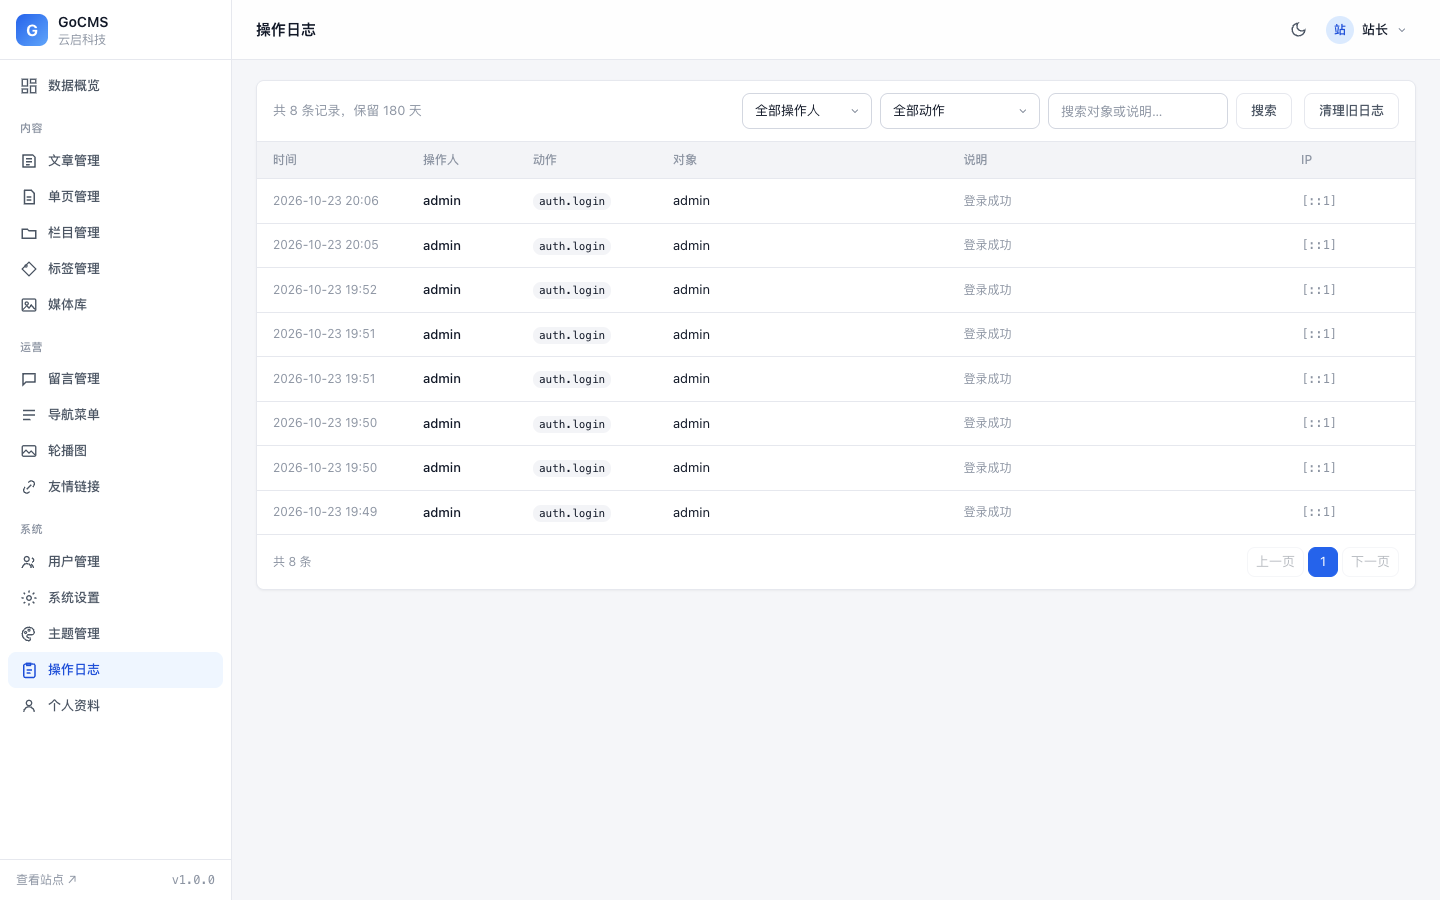
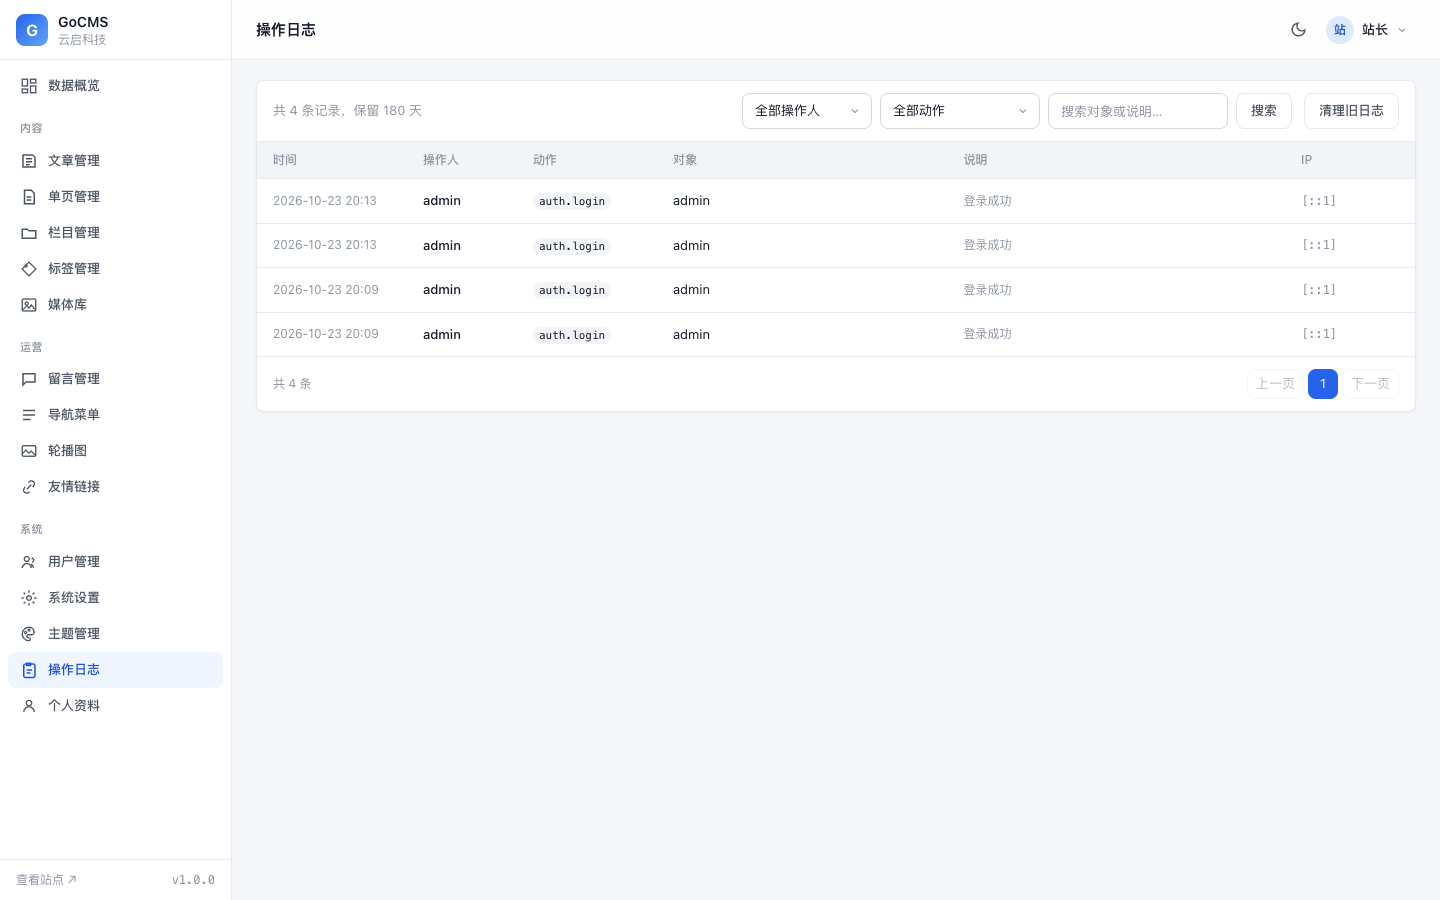
fix: /healthz 的 uptime_seconds 从未赋值，永远返回 0
healthResponse.Uptime 字段定义了但计算时漏掉，JSON 结构看着完全正常，
实际这个字段一直恒为 0 —— 运维想靠它判断「是否刚重启过」时拿到的是假数据。

- 赋值 int64(time.Since(processStartedAt).Seconds())
- 补 TestHealthzUptime：把 processStartedAt 前拨 2 小时，断言 uptime > 7000，
  避免以后又出现「字段在、值为零」这种看不出来的漏赋值

实测：重启后 5 秒 → 9 秒，确实在增长。

diff --git a/internal/handler/health_test.go b/internal/handler/health_test.go
@@ -7,6 +7,7 @@ import (
 	"net/http/httptest"
 	"strings"
 	"testing"
+	"time"
 
 	_ "github.com/go-sql-driver/mysql"
 
@@ -63,5 +64,25 @@ func TestHealthzWithoutDB(t *testing.T) {
 	}
 	if ct := rec.Header().Get("Content-Type"); !strings.Contains(ct, "application/json") {
 		t.Errorf("Content-Type = %q，期望 JSON", ct)
+	}
+}
+
+// uptime 曾经永远是 0：字段定义了却没赋值，JSON 里看着正常，实际拿不到任何信息。
+// 把启动时间往前拨 2 小时来断言它真的在被计算。
+func TestHealthzUptime(t *testing.T) {
+	orig := processStartedAt
+	processStartedAt = time.Now().Add(-2 * time.Hour)
+	t.Cleanup(func() { processStartedAt = orig })
+
+	h := &Handler{repo: &repository.Repo{}}
+	rec := httptest.NewRecorder()
+	h.Healthz(rec, httptest.NewRequest(http.MethodGet, "/healthz", nil))
+
+	var body healthResponse
+	if err := json.Unmarshal(rec.Body.Bytes(), &body); err != nil {
+		t.Fatalf("响应不是合法 JSON: %v", err)
+	}
+	if body.Uptime < 7000 {
+		t.Errorf("uptime_seconds = %d，进程已跑 2 小时应 > 7000", body.Uptime)
 	}
 }

diff --git a/internal/handler/health.go b/internal/handler/health.go
@@ -49,6 +49,8 @@ func (h *Handler) Healthz(w http.ResponseWriter, r *http.Request) {
 		err = errNoDB
 	}
 	resp.DBCheck = time.Since(start).Milliseconds()
+	// 进程运行时长：运维判断「是否刚重启过」「是否稳定运行」最直接的指标
+	resp.Uptime = int64(time.Since(processStartedAt).Seconds())
 
 	code := http.StatusOK
 	if err != nil {

diff --git a/docs/02-实测验证记录.md b/docs/02-实测验证记录.md
@@ -508,7 +508,7 @@ ADMIN_PATH=manage node scripts/audit-admin-ui.js
 ### 13.2 /healthz
 
 ```json
-{"status":"ok","db":"ok","uptime_seconds":0,"db_latency_ms":0}
+{"status":"ok","db":"ok","uptime_seconds":5,"db_latency_ms":0}
 ```
 
 | 用例 | 结果 |
@@ -519,6 +519,11 @@ ADMIN_PATH=manage node scripts/audit-admin-ui.js
 | 响应头 | `Cache-Control: no-store` |
 | 响应体是否泄露内部细节 | 否（不含 DSN、驱动报错原文） |
 | 后台 IP 白名单开启后 | 仍 200（**不受白名单限制**） |
+| `uptime_seconds` | 5 → 9，随进程运行增长（见下方缺陷说明） |
+
+> **自己引入的缺陷**：初版 `healthResponse.Uptime` 字段定义了但从未赋值，
+> JSON 里看着正常、实际永远是 0。已修复，并补 `TestHealthzUptime`
+> （把启动时间前拨 2 小时来断言它真的在计算）。
 
 ### 13.3 静态资源缓存
 
